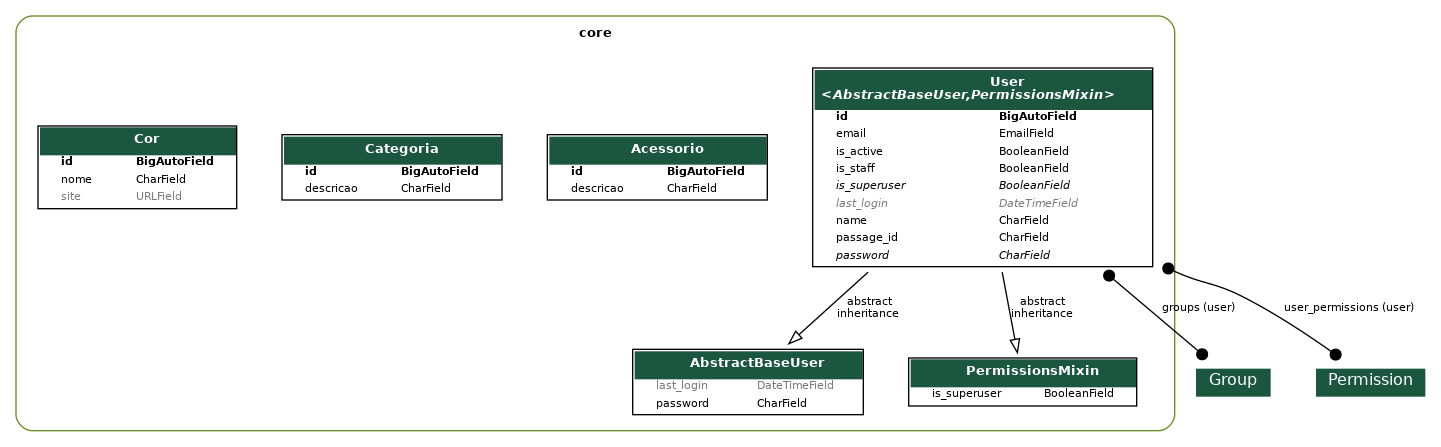
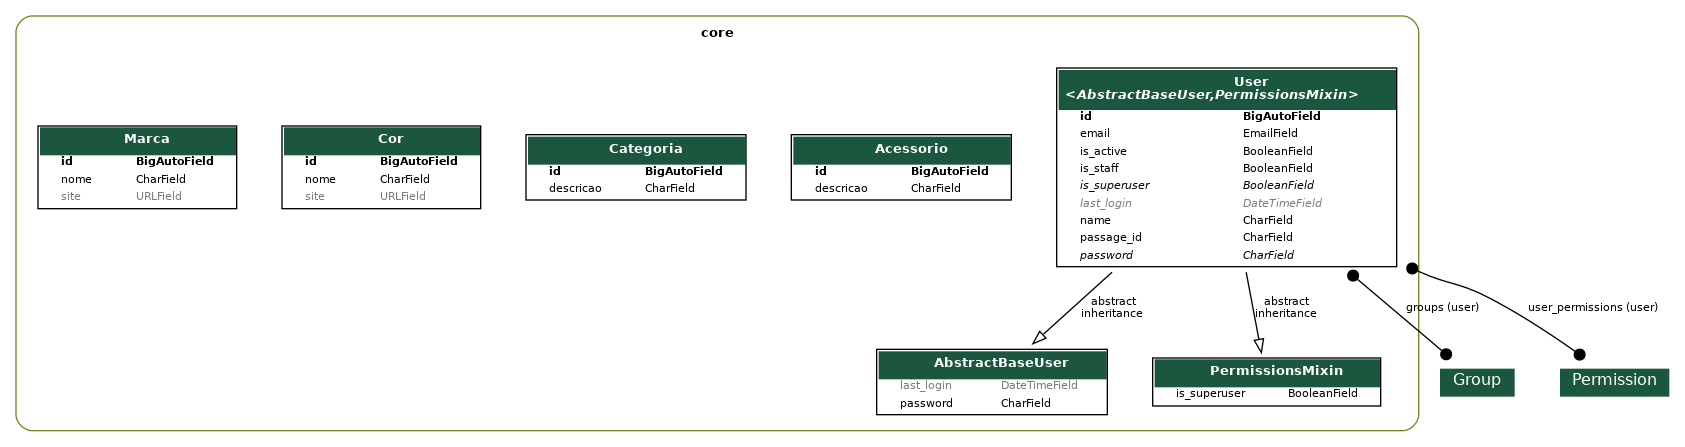
Finalizar API marcas

diff --git a/app/urls.py b/app/urls.py
@@ -9,7 +9,7 @@ from drf_spectacular.views import (
 from rest_framework.routers import DefaultRouter
 from rest_framework_simplejwt.views import TokenObtainPairView, TokenRefreshView
 
-from core.views import AcessorioViewSet, CategoriaViewSet, CorViewSet, UserViewSet
+from core.views import AcessorioViewSet, CategoriaViewSet, CorViewSet, MarcaViewSet, UserViewSet
 
 router = DefaultRouter()
 
@@ -17,6 +17,8 @@ router.register(r"usuarios", UserViewSet, basename="usuarios")
 router.register(r"acessorio", AcessorioViewSet, basename="acessorios")
 router.register(r"categorias", CategoriaViewSet, basename="categorias")
 router.register(r"cor", CorViewSet, basename="cores")
+router.register(r"marca", MarcaViewSet, basename="marcas")
+
 
 
 

diff --git a/core/migrations/0006_marca.py b/core/migrations/0006_marca.py
@@ -1,0 +1,21 @@
+# Generated by Django 5.0.6 on 2024-07-05 18:19
+
+from django.db import migrations, models
+
+
+class Migration(migrations.Migration):
+
+    dependencies = [
+        ("core", "0005_alter_cor_options"),
+    ]
+
+    operations = [
+        migrations.CreateModel(
+            name="Marca",
+            fields=[
+                ("id", models.BigAutoField(auto_created=True, primary_key=True, serialize=False, verbose_name="ID")),
+                ("nome", models.CharField(max_length=100)),
+                ("site", models.URLField(blank=True, null=True)),
+            ],
+        ),
+    ]

diff --git a/core/views/marca.py b/core/views/marca.py
@@ -1,0 +1,9 @@
+from rest_framework.viewsets import ModelViewSet
+
+from core.models import Marca
+from core.serializers import MarcaSerializer
+
+...
+class MarcaViewSet(ModelViewSet):
+    queryset = Marca.objects.all()
+    serializer_class = MarcaSerializer

diff --git a/core/models/marca.py b/core/models/marca.py
@@ -1,0 +1,8 @@
+from django.db import models
+
+class Marca(models.Model):
+    nome = models.CharField(max_length=50)
+    nacionalidade = models.URLField(max_length=50,null=True)
+
+    def __str__(self):
+        return f"{self.nome} ({self.id})"

diff --git a/core/serializers/marca.py b/core/serializers/marca.py
@@ -1,0 +1,8 @@
+from rest_framework.serializers import ModelSerializer
+
+from core.models import Marca
+...
+class MarcaSerializer(ModelSerializer):
+    class Meta:
+        model = Marca
+        fields = "__all__"

diff --git a/core/admin.py b/core/admin.py
@@ -53,3 +53,4 @@ admin.site.register(models.User, UserAdmin)
 admin.site.register(models.Acessorio)
 admin.site.register(models.Categoria)
 admin.site.register(models.Cor)
+admin.site.register(models.Marca)

diff --git a/core/serializers/__init__.py b/core/serializers/__init__.py
@@ -2,3 +2,4 @@ from .user import UserSerializer
 from .acessorio import AcessorioSerializer
 from .categoria import CategoriaSerializer
 from .cor import CorSerializer
+from .marca import MarcaSerializer

diff --git a/core/views/__init__.py b/core/views/__init__.py
@@ -2,3 +2,4 @@ from .user import UserViewSet
 from .acessorio import AcessorioViewSet
 from .categoria import CategoriaViewSet
 from .cor import CorViewSet
+from .marca import MarcaViewSet

diff --git a/core/models/__init__.py b/core/models/__init__.py
@@ -2,3 +2,4 @@ from .user import User
 from .acessorio import Acessorio
 from .categoria import Categoria
 from .cor import Cor
+from .marca import Marca
